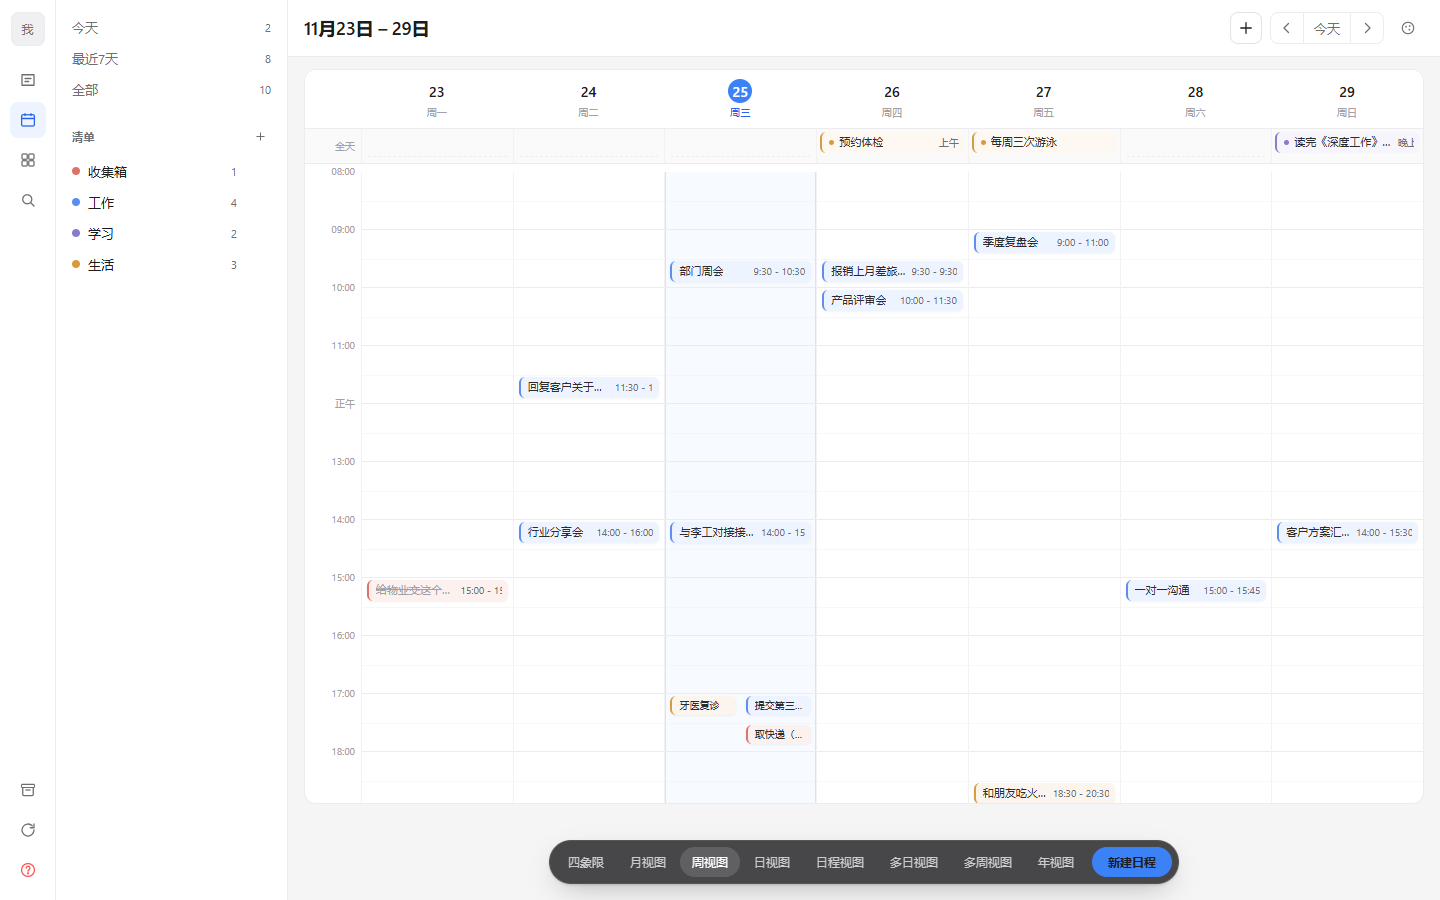
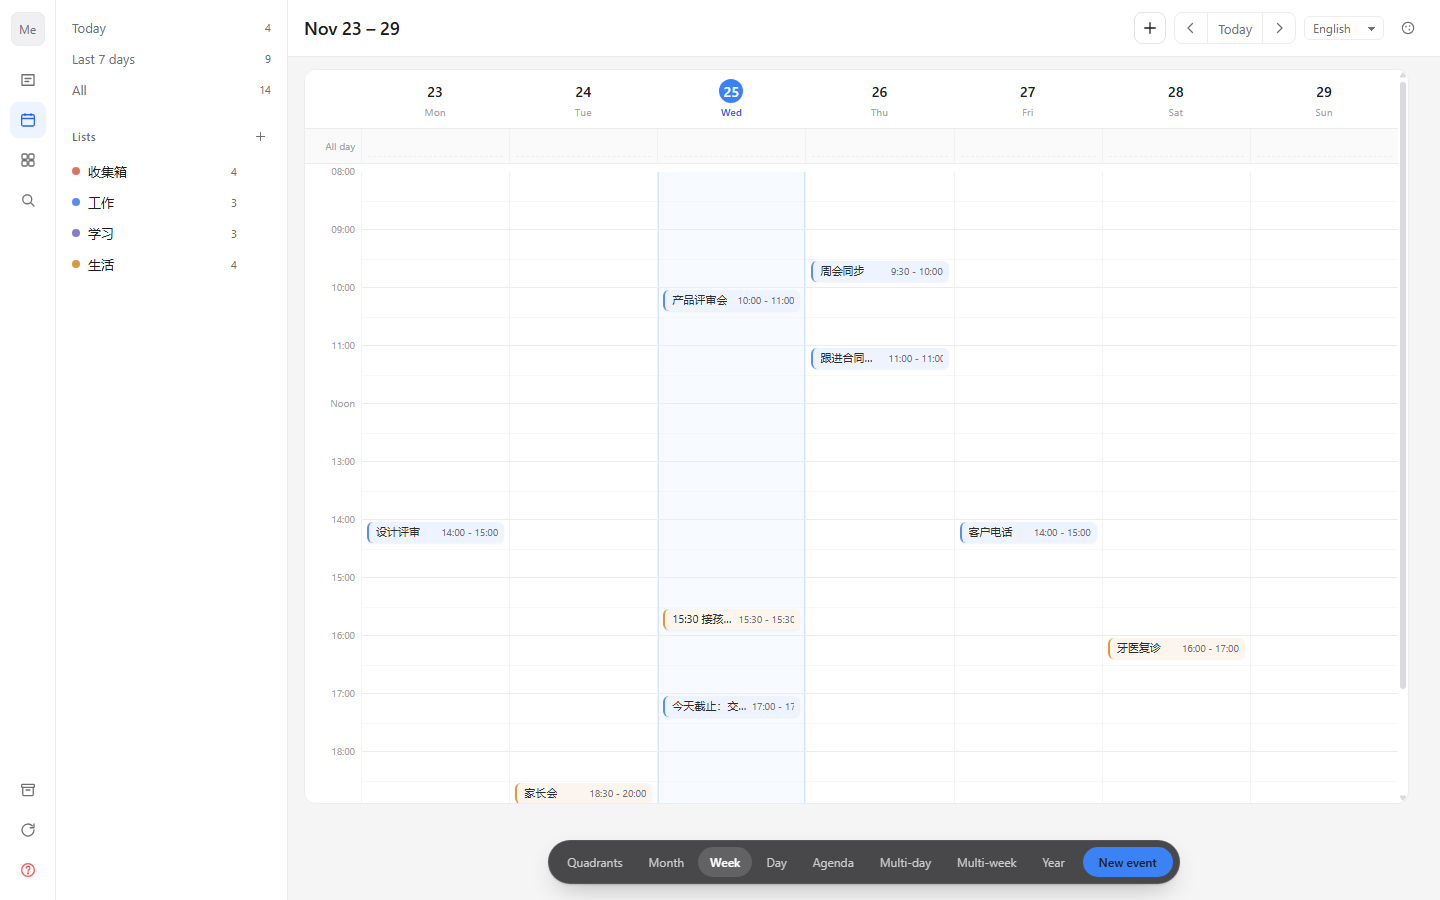
fix(i18n): translate the screens every other pass missed
`views/ViewSwitcher.tsx` and `shortcuts/ShortcutHelp.tsx` held the view names
and the cheat sheet as module-level Chinese constants. Both were outside every
per-screen brief, so the app shipped with an English UI and a Chinese view
switcher at the bottom of it — the one control a user looks at to navigate.

They now resolve labels through the catalog inside the component. A `const`
evaluated at import time cannot follow a language change; that is precisely
why the switcher stayed Chinese.

The shortcut table now stores full catalog paths rather than bare suffixes.
The typed `t()` accepts only literal keys, so `t('shortcuts.' + key)` does not
compile — which is the protection working, not an obstacle. Spelling each path
out means a renamed key breaks the build instead of rendering the raw key.

Also fixes a layout regression the translation caused: segmented controls have
a fixed 22px item height, and English labels are far longer than the Chinese
they replaced. 「重要且紧急」 became "Urgent & important" and the quadrant
control wrapped onto three ragged lines. Labels no longer wrap; the row does.
Measured after: all four segments 22px tall, zero wrapped.

Screenshots re-captured against the English UI.

diff --git a/packages/features/src/shortcuts/ShortcutHelp.tsx b/packages/features/src/shortcuts/ShortcutHelp.tsx
@@ -1,5 +1,6 @@
-import { useCallback, useEffect, useId, useRef, useState } from 'react';
+import { useCallback, useEffect, useId, useMemo, useRef, useState } from 'react';
 import type { MouseEvent as ReactMouseEvent } from 'react';
+import { useTranslation } from '@todolist/ui';
 import { formatBinding, isEditableTarget } from './useShortcuts';
 import './shortcuts.css';
 
@@ -19,18 +20,45 @@ export interface ShortcutHelpProps {
   items?: readonly ShortcutHelpItem[];
 }
 
-export const DEFAULT_SHORTCUT_ITEMS: readonly ShortcutHelpItem[] = [
-  { binding: 'mod+k', label: '搜索' },
-  { binding: '?', label: '快捷键帮助' },
-  { binding: 'mod+z', label: '撤销' },
-  { binding: 'mod+shift+z', label: '重做' },
-  { binding: 'g q', label: '四象限' },
-  { binding: 'g m', label: '月视图' },
-  { binding: 'g w', label: '周视图' },
-  { binding: 'g d', label: '日视图' },
-  { binding: 'g a', label: '日程视图' },
-  { binding: 'escape', label: '关闭对话框' },
+/**
+ * The bindings are fixed; only their descriptions change with the language.
+ * Kept as a binding list here and resolved through the catalog in the
+ * component so the sheet follows a language switch made while it is open.
+ */
+/**
+ * The bindings are fixed; only their descriptions change with the language.
+ *
+ * Full catalog paths rather than a bare suffix: the typed `t()` accepts only
+ * literal keys, so `t('shortcuts.' + b.key)` would fail to type-check — which
+ * is the point. Spelling each path out means a renamed catalog key breaks the
+ * build instead of rendering the raw key to the user.
+ */
+export const DEFAULT_SHORTCUT_BINDINGS: readonly {
+  binding: string;
+  labelKey:
+    | 'shortcuts.search'
+    | 'shortcuts.help'
+    | 'shortcuts.undo'
+    | 'shortcuts.redo'
+    | 'shortcuts.quadrant'
+    | 'shortcuts.month'
+    | 'shortcuts.week'
+    | 'shortcuts.day'
+    | 'shortcuts.agenda'
+    | 'shortcuts.close';
+}[] = [
+  { binding: 'mod+k', labelKey: 'shortcuts.search' },
+  { binding: '?', labelKey: 'shortcuts.help' },
+  { binding: 'mod+z', labelKey: 'shortcuts.undo' },
+  { binding: 'mod+shift+z', labelKey: 'shortcuts.redo' },
+  { binding: 'g q', labelKey: 'shortcuts.quadrant' },
+  { binding: 'g m', labelKey: 'shortcuts.month' },
+  { binding: 'g w', labelKey: 'shortcuts.week' },
+  { binding: 'g d', labelKey: 'shortcuts.day' },
+  { binding: 'g a', labelKey: 'shortcuts.agenda' },
+  { binding: 'escape', labelKey: 'shortcuts.close' },
 ];
+
 
 /**
  * Modal cheat-sheet built on the native `<dialog>`, so focus trapping,
@@ -39,7 +67,19 @@ export const DEFAULT_SHORTCUT_ITEMS: readonly ShortcutHelpItem[] = [
  * Uncontrolled by default: render it once anywhere in the tree and it opens on
  * `?`. Pass `open` + `onClose` to drive it from outside instead.
  */
-export function ShortcutHelp({ open: controlledOpen, onClose, items = DEFAULT_SHORTCUT_ITEMS }: ShortcutHelpProps) {
+export function ShortcutHelp({ open: controlledOpen, onClose, items }: ShortcutHelpProps) {
+  const { t } = useTranslation('misc');
+  // Resolve the default cheat-sheet in the active language. Building it at
+  // module scope would freeze whichever language was active at import time.
+  const resolvedItems = useMemo<readonly ShortcutHelpItem[]>(
+    () =>
+      items ??
+      DEFAULT_SHORTCUT_BINDINGS.map((b) => ({
+        binding: b.binding,
+        label: t(b.labelKey),
+      })),
+    [items, t],
+  );
   const controlled = controlledOpen !== undefined;
   const [internalOpen, setInternalOpen] = useState(false);
   const open = controlled ? controlledOpen : internalOpen;
@@ -101,14 +141,14 @@ export function ShortcutHelp({ open: controlledOpen, onClose, items = DEFAULT_SH
       <div className="sc-help__panel">
         <header className="sc-help__head">
           <h2 className="sc-help__title" id={titleId}>
-            键盘快捷键
+            {t('shortcuts.title')}
           </h2>
           <span className="sc-help__hint" aria-hidden="true">
-            按 Esc 关闭
+            {t('shortcuts.close')}
           </span>
         </header>
         <ul className="sc-help__list">
-          {items.map((item) => (
+          {resolvedItems.map((item) => (
             <li className="sc-help__item" key={`${item.binding}:${item.label}`}>
               <span className="sc-help__label">{item.label}</span>
               <kbd className="sc-help__kbd">{formatBinding(item.binding)}</kbd>

diff --git a/packages/features/src/views/ViewSwitcher.tsx b/packages/features/src/views/ViewSwitcher.tsx
@@ -1,4 +1,5 @@
-import { SegmentedControl, ViewSwitcherPill } from '@todolist/ui';
+import { useMemo } from 'react';
+import { SegmentedControl, ViewSwitcherPill, useTranslation } from '@todolist/ui';
 
 export type ViewKind = 'quadrant' | 'month' | 'week' | 'day' | 'agenda' | 'year' | 'multi-day' | 'multi-week';
 
@@ -6,19 +7,27 @@ export interface ViewSwitcherProps {
   value: ViewKind;
   onChange: (value: ViewKind) => void;
   variant?: 'segmented' | 'pill';
-  /** Only used by the pill variant — the 立即升级 CTA on the right end. */
+  /** Only used by the pill variant — the CTA on the right end. */
   cta?: { label: string; onClick: () => void };
 }
 
-const OPTIONS: { value: ViewKind; label: string }[] = [
-  { value: 'quadrant', label: '四象限' },
-  { value: 'month', label: '月视图' },
-  { value: 'week', label: '周视图' },
-  { value: 'day', label: '日视图' },
-  { value: 'agenda', label: '日程视图' },
-  { value: 'multi-day', label: '多日视图' },
-  { value: 'multi-week', label: '多周视图' },
-  { value: 'year', label: '年视图' },
+/**
+ * The eight destinations, in the order they appear in both variants.
+ *
+ * Labels are resolved from the catalog inside the component rather than being
+ * baked into a module-level table: a `const` evaluated at import time cannot
+ * follow a language change, so the switcher would have stayed Chinese in an
+ * English UI — which is exactly what happened before this moved here.
+ */
+const VIEWS: readonly ViewKind[] = [
+  'quadrant',
+  'month',
+  'week',
+  'day',
+  'agenda',
+  'multi-day',
+  'multi-week',
+  'year',
 ];
 
 /**
@@ -27,13 +36,32 @@ const OPTIONS: { value: ViewKind; label: string }[] = [
  * to five and snapped year/multi-* views to a lit 月视图.
  */
 export function ViewSwitcher({ value, onChange, variant = 'segmented', cta }: ViewSwitcherProps) {
+  const { t } = useTranslation('misc');
+  const options = useMemo(
+    () => VIEWS.map((v) => ({ value: v, label: t(`views.${v}`) })),
+    [t],
+  );
+
   if (variant === 'pill') {
-    // No `caption`: the design's 「示例数据仅供参考」 is a mockup note. This app
-    // shows the user's real tasks, so that line would be false.
-    return <ViewSwitcherPill items={OPTIONS} value={value} onChange={(v) => onChange(v as ViewKind)} cta={cta} />;
+    // No `caption`: the design's mockup note would be false here — this app
+    // shows the user's real tasks, not sample data.
+    return (
+      <ViewSwitcherPill
+        items={options}
+        value={value}
+        onChange={(v) => onChange(v as ViewKind)}
+        cta={cta}
+      />
+    );
   }
 
   return (
-    <SegmentedControl options={OPTIONS} value={value} onChange={onChange} size="sm" ariaLabel="视图" />
+    <SegmentedControl
+      options={options}
+      value={value}
+      onChange={onChange}
+      size="sm"
+      ariaLabel={t('views.switcherLabel')}
+    />
   );
 }

diff --git a/packages/ui/src/styles.css b/packages/ui/src/styles.css
@@ -448,6 +448,15 @@
     padding: 2px;
     border-radius: var(--tl-radius-md);
     background: var(--tl-surface-sunken);
+    /*
+     * The item height is fixed (22px / 26px), so a label that wraps overflows
+     * its own pill. English labels are far longer than the Chinese they
+     * replaced — "Urgent & important" against 「重要且紧急」 — and the quadrant
+     * control broke into three ragged lines. Let the *row* wrap instead; each
+     * label then stays on one line and the segments keep a common height.
+     */
+    flex-wrap: wrap;
+    max-inline-size: 100%;
   }
   .tl-seg__item {
     border: 0;
@@ -458,6 +467,7 @@
     font-size: var(--tl-font-size-sm);
     color: var(--tl-text-secondary);
     cursor: pointer;
+    white-space: nowrap;
     transition:
       background var(--tl-duration-fast) var(--tl-ease-standard),
       color var(--tl-duration-fast) var(--tl-ease-standard);
